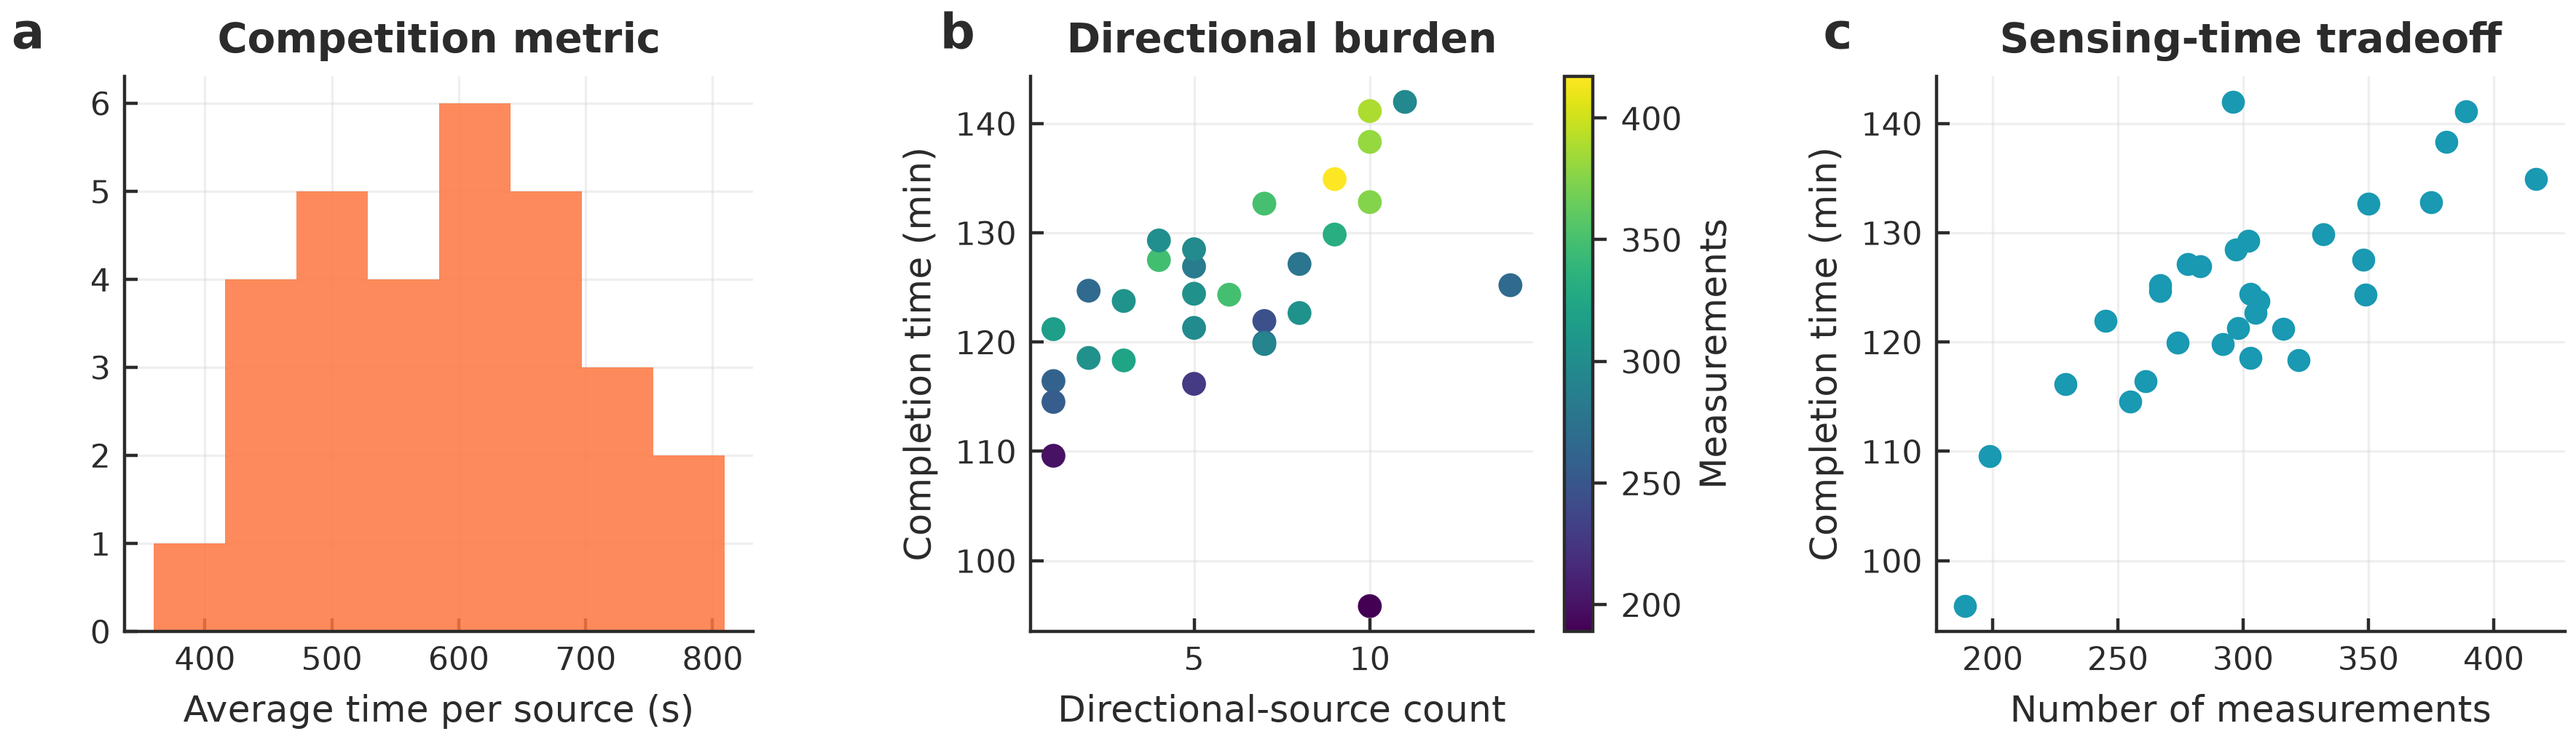
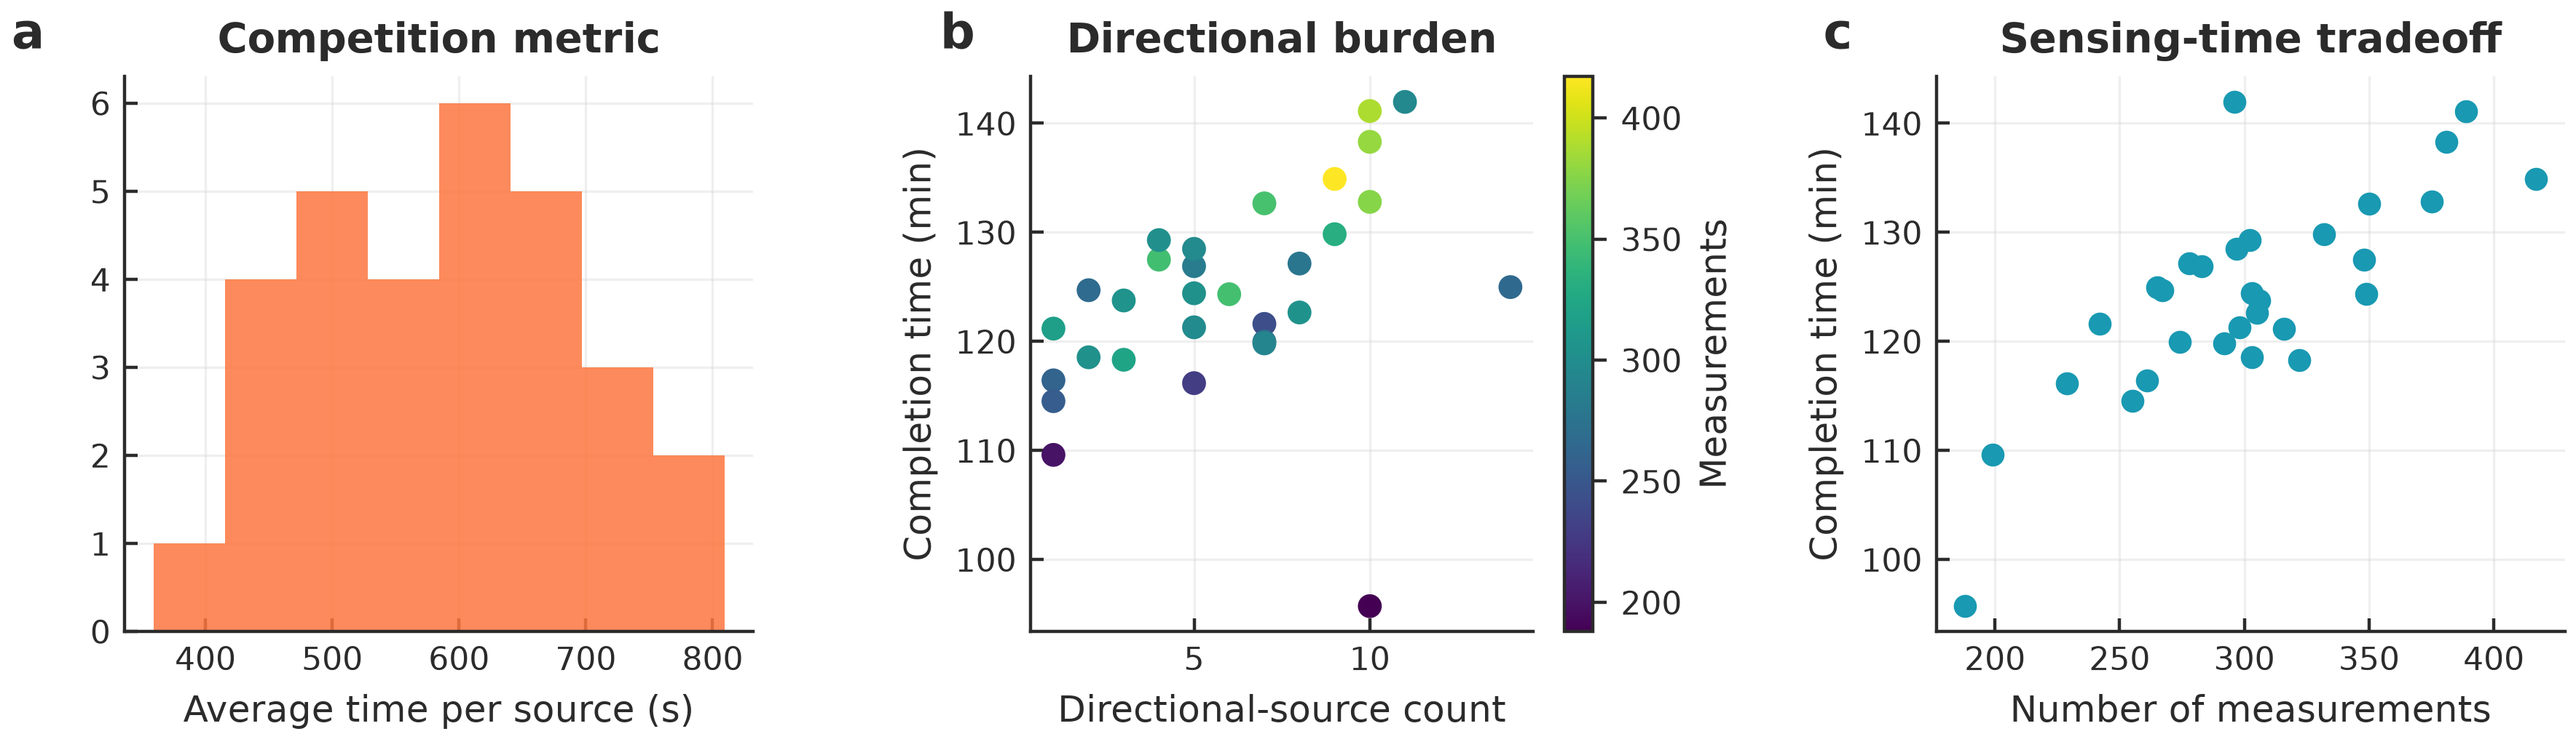
perf: skip redundant question 4 scans after source cap

diff --git a/src/question4_strategy.py b/src/question4_strategy.py
@@ -249,6 +249,9 @@ class MixedDirectionalSearch:
         self.measure_count = 0
         self.clear_attempt_count = 0
 
+    def _known_source_count(self) -> int:
+        return sum(state.detected or state.cleared for state in self.states.values())
+
     def _measure(self, robot: RobotInterface, point: Point, channel: int):
         reply = robot.measure(point, channel)
         self.measure_count += 1
@@ -277,6 +280,8 @@ class MixedDirectionalSearch:
             channels.remove(current_channel)
             channels.insert(0, current_channel)
         for channel in channels:
+            if self._known_source_count() >= self.max_sources:
+                break
             reply = self._measure(robot, station, channel)
             state = self.states[channel]
             if reply.result == "near":
@@ -293,6 +298,8 @@ class MixedDirectionalSearch:
         """Insert low-detour guaranteed clears into the remaining survey route."""
 
         while remaining_stations:
+            if self._known_source_count() >= self.max_sources:
+                return
             direct = robot.position.distance_to(remaining_stations[0])
             choices: list[tuple[float, Point, ChannelState]] = []
             for state in self.states.values():
@@ -490,7 +497,7 @@ class MixedDirectionalSearch:
         stations = plan_station_route(station_set)
         visited: list[Point] = []
         for index, station in enumerate(stations):
-            if sum(state.detected or state.cleared for state in self.states.values()) >= self.max_sources:
+            if self._known_source_count() >= self.max_sources:
                 break
             self._clear_certified_en_route(robot, stations[index:])
             self._scan_station(robot, station)

diff --git a/paper/问题四_混合方向源保证发现与保信号追踪.md b/paper/问题四_混合方向源保证发现与保信号追踪.md
@@ -106,9 +106,9 @@ $$
 | 指标 | 均值 | 中位数 | 最小值 | 最大值 | 95% 分位数 |
 |---|---:|---:|---:|---:|---:|
 | 被清除比例 | 1.000 | 1.000 | 1.000 | 1.000 | 1.000 |
-| 总定位清除时间（s） | 7458.7 | 7461.9 | 5749.7 | 8517.6 | 8391.0 |
-| 平均定位清除时间（s/个） | 587.3 | 596.1 | 359.4 | 809.4 | 749.3 |
-| 检测次数 | 300.9 | 300.0 | 189.0 | 417.0 | 385.4 |
+| 总定位清除时间（s） | 7457.4 | 7461.9 | 5742.7 | 8517.6 | 8391.0 |
+| 平均定位清除时间（s/个） | 587.2 | 596.1 | 358.9 | 809.4 | 749.3 |
+| 检测次数 | 300.7 | 300.0 | 188.0 | 417.0 | 385.4 |
 | 清除尝试次数 | 18.5 | 17.5 | 11.0 | 35.0 | 31.2 |
 
 30 局均清除全部干扰源，平均访问 22.3 个公共测站。与早期 25 点固定追踪版本的 9516.5 s 相比，平均总时间下降约 21.6%。逐案例数据由 `src/question4_demo.py` 写入 `results/tables/question4_demo.json`，汇总表写入 `results/tables/question4_summary.md`，避免手工录入。Monte Carlo 分布与方向源数量关系见 `results/figures/question4_monte_carlo.pdf`，代表性路线见 `results/figures/question4_example_route.pdf`。

diff --git a/results/tables/question4_summary.md b/results/tables/question4_summary.md
@@ -2,9 +2,9 @@
 | 指标 | 均值 | 中位数 | 最小值 | 最大值 | 95% 分位数 |
 |---|---:|---:|---:|---:|---:|
 | 被清除比例 | 1.000 | 1.000 | 1.000 | 1.000 | 1.000 |
-| 总定位清除时间（s） | 7458.7 | 7461.9 | 5749.7 | 8517.6 | 8391.0 |
-| 平均定位清除时间（s/个） | 587.3 | 596.1 | 359.4 | 809.4 | 749.3 |
-| 检测次数 | 300.9 | 300.0 | 189.0 | 417.0 | 385.4 |
+| 总定位清除时间（s） | 7457.4 | 7461.9 | 5742.7 | 8517.6 | 8391.0 |
+| 平均定位清除时间（s/个） | 587.2 | 596.1 | 358.9 | 809.4 | 749.3 |
+| 检测次数 | 300.7 | 300.0 | 188.0 | 417.0 | 385.4 |
 | 清除尝试次数 | 18.5 | 17.5 | 11.0 | 35.0 | 31.2 |
 
 三角格点共 23 个；完整巡检开放路径长 20701.6 m。

diff --git a/README.md b/README.md
@@ -74,4 +74,4 @@ python src/question3_demo.py 30
 python src/question4_demo.py 30
 ```
 
-问题四当前默认使用 `balanced` 23 点巡检和 8° 双侧追踪；本地 30 局固定种子演练全部清除，平均总定位清除时间为 7458.7 s。若需要更强几何证明，可在正式客户端中切换 `--survey-profile certified`。
+问题四当前默认使用 `balanced` 23 点巡检和 8° 双侧追踪；本地 30 局固定种子演练全部清除，平均总定位清除时间为 7457.4 s。若需要更强几何证明，可在正式客户端中切换 `--survey-profile certified`。
